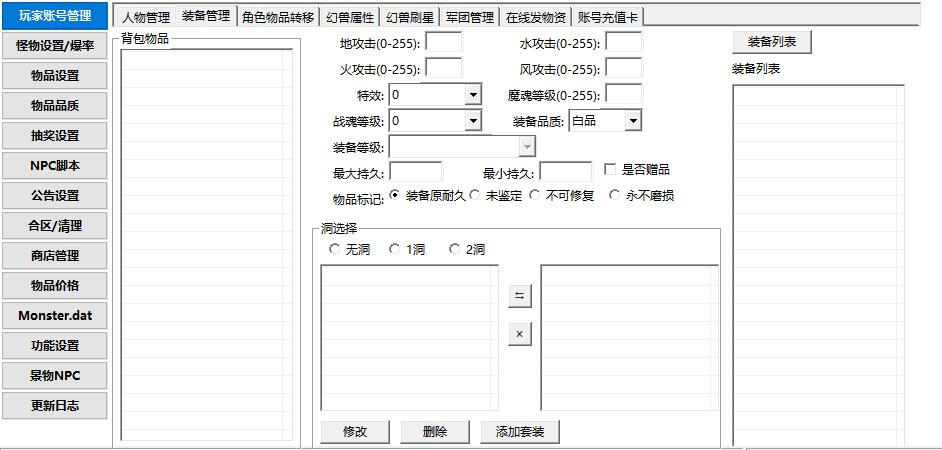
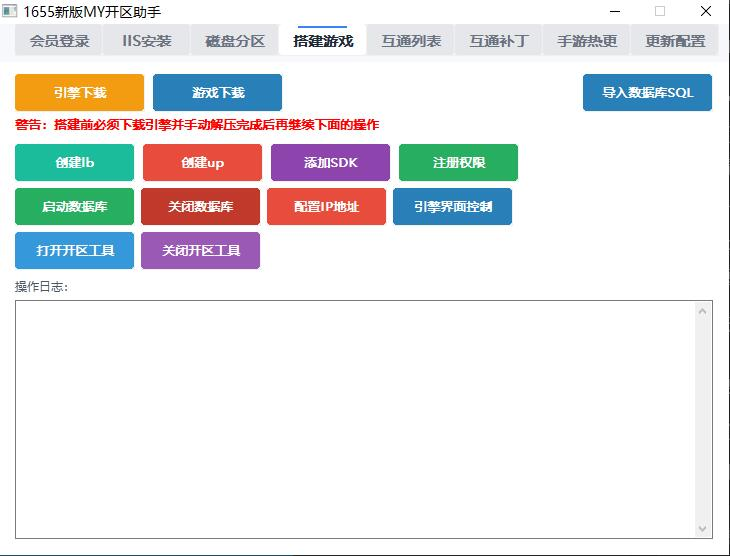
Add files via upload

diff --git a/pages/tool-6.html b/pages/tool-6.html
@@ -3,7 +3,7 @@
 <head>
   <meta charset="UTF-8" />
   <meta name="viewport" content="width=device-width, initial-scale=1.0" />
-  <title>二维码生成器 | 单机魔域工具库</title>
+  <title>纯老端魔域GM工具 | 单机魔域工具库</title>
   <link rel="stylesheet" href="../css/style.css" />
   <link rel="icon" type="image/x-icon" href="../images/favicon.ico" />
   <meta name="keywords" content="魔域单机版,单机魔域修改工具,单机魔域GM工具,魔域技术,魔域维护工具,单机魔域一键工具" />
@@ -25,28 +25,27 @@
   <!-- ===== 文章 ===== -->
   <main class="article container">
     <div class="breadcrumb">
-      <a href="../index.html">首页</a> / <a href="../index.html#tools">全部工具</a> / 二维码生成器
+      <a href="../index.html">首页</a> / <a href="../index.html#tools">全部工具</a> / 纯老端魔域GM工具
     </div>
 
     <div class="article-head">
-      <img class="cover" src="../images/tool-6.svg" alt="二维码生成器" />
+      <img class="cover" src="../images/tool-6.jpg" alt="纯老端魔域GM工具" />
       <div class="meta">
-        <h1>二维码生成器</h1>
-        <a class="btn-download" href="#">下载使用</a>
+        <h1>纯老端魔域GM工具</h1>
+        <a class="btn-download" href="https://wwand.lanzout.com/ilu3L4et6zdc">下载使用，密码1234</a>
       </div>
     </div>
 
     <div class="article-body">
       <h2>工具简介</h2>
-      <p>二维码生成器 是为玩单机开发的一款轻量小工具，专注于把繁琐重复的操作变得简单。它占用资源极小、无需安装即可运行。</p>
+      <p>纯老端魔域GM工具 是为玩单机开发的一款轻量小工具，专注于把繁琐重复的操作变得简单。它占用资源极小、无需安装即可运行。</p>
 
       <h2>核心功能</h2>
       <ul>
-    <li>支持文本/网址/名片</li>
-    <li>可调尺寸与容错</li>
-    <li>前景背景配色</li>
-    <li>导出 PNG/SVG</li>
-    <li>扫码预览</li>
+    <li>支持账号管理/幻兽管理/装备管理</li>
+    <li>完整的VIP商店制作</li>
+    <li>完美的脚本功能</li>
+    <li>超多综合功能等你来挖掘</li>
       </ul>
 
       <h2>使用说明</h2>

diff --git a/index.html b/index.html
@@ -52,36 +52,36 @@
         </a>
       </div>
     </div>
-<!--  
-    <!-- 第 2 段 
+  
+     <!-- 第 2 段  -->
     <div class="subsection">
-      <h2 class="cat-title">效率与开发工具</h2>
+      <h2 class="cat-title">GM开发工具</h2>
       <div class="grid">
         <a class="card" href="pages/tool-4.html">
-          <img class="thumb" src="images/tool-4.svg" alt="文本对比器" />
+          <img class="thumb" src="images/tool-4.jpg" alt="1655新版MY开区助手" />
           <div class="body">
-            <h3>文本对比器</h3>
+            <h3>1655新版MY开区助手</h3>
             <span class="more">查看详情</span>
           </div>
         </a>
         <a class="card" href="pages/tool-5.html">
-          <img class="thumb" src="images/tool-5.svg" alt="安全密码生成器" />
+          <img class="thumb" src="images/tool-5.jpg" alt="新老通用脚本编辑工具" />
           <div class="body">
-            <h3>安全密码生成器</h3>
+            <h3>新老通用脚本编辑工具</h3>
             <span class="more">查看详情</span>
           </div>
         </a>
-        <a class="card" href="pages/tool-9.html">
-          <img class="thumb" src="images/tool-9.svg" alt="剪贴板管理器" />
+        <a class="card" href="pages/tool-6.html">
+          <img class="thumb" src="images/tool-6.jpg" alt="纯老端魔域GM工具(多功能完整版)" />
           <div class="body">
-            <h3>剪贴板管理器</h3>
+            <h3>纯老端魔域GM工具(多功能完整版)</h3>
             <span class="more">查看详情</span>
           </div>
         </a>
-        <a class="card" href="pages/tool-10.html">
-          <img class="thumb" src="images/tool-10.svg" alt="JSON 格式化工具" />
+        <a class="card" href="pages/tool-7.html">
+          <img class="thumb" src="images/tool-7.jpg" alt="16655新端魔域GM工具" />
           <div class="body">
-            <h3>JSON 格式化工具</h3>
+            <h3>16655新端魔域GM工具</h3>
             <span class="more">查看详情</span>
           </div>
         </a>

diff --git a/pages/tool-7.html b/pages/tool-7.html
@@ -3,7 +3,7 @@
 <head>
   <meta charset="UTF-8" />
   <meta name="viewport" content="width=device-width, initial-scale=1.0" />
-  <title>定时关机助手 | 单机魔域工具库</title>
+  <title>16655新端魔域GM工具 | 单机魔域工具库</title>
   <link rel="stylesheet" href="../css/style.css" />
   <link rel="icon" type="image/x-icon" href="../images/favicon.ico" />
   <meta name="keywords" content="魔域单机版,单机魔域修改工具,单机魔域GM工具,魔域技术,魔域维护工具,单机魔域一键工具" />
@@ -25,28 +25,25 @@
   <!-- ===== 文章 ===== -->
   <main class="article container">
     <div class="breadcrumb">
-      <a href="../index.html">首页</a> / <a href="../index.html#tools">全部工具</a> / 定时关机助手
+      <a href="../index.html">首页</a> / <a href="../index.html#tools">全部工具</a> / 16655新端魔域GM工具
     </div>
 
     <div class="article-head">
-      <img class="cover" src="../images/tool-7.svg" alt="定时关机助手" />
+      <img class="cover" src="../images/tool-7.jpg" alt="16655新端魔域GM工具" />
       <div class="meta">
-        <h1>定时关机助手</h1>
-        <a class="btn-download" href="#">下载使用</a>
+        <h1>16655新端魔域GM工具</h1>
+        <a class="btn-download" href="https://wwand.lanzout.com/iwuWp4et7lij">下载使用，密码1234</a>
       </div>
     </div>
 
     <div class="article-body">
       <h2>工具简介</h2>
-      <p>定时关机助手 是为玩单机开发的一款轻量小工具，专注于把繁琐重复的操作变得简单。它占用资源极小、无需安装即可运行。</p>
+      <p>16655新端魔域GM工具 是为玩单机开发的一款轻量小工具，专注于把繁琐重复的操作变得简单。它占用资源极小、无需安装即可运行。</p>
 
       <h2>核心功能</h2>
       <ul>
-    <li>倒计时与定时双模式</li>
-    <li>关机/休眠/重启</li>
-    <li>执行前提醒</li>
-    <li>任务计划管理</li>
-    <li>最小化托盘</li>
+    <li>没有</li>
+
       </ul>
 
       <h2>使用说明</h2>

diff --git a/pages/tool-4.html b/pages/tool-4.html
@@ -3,7 +3,7 @@
 <head>
   <meta charset="UTF-8" />
   <meta name="viewport" content="width=device-width, initial-scale=1.0" />
-  <title>纯老端单机GM工具 | 单机魔域工具库</title>
+  <title>1655新版MY开区助手 | 单机魔域工具库</title>
   <link rel="stylesheet" href="../css/style.css" />
   <link rel="icon" type="image/x-icon" href="../images/favicon.ico" />
   <meta name="keywords" content="魔域单机版,单机魔域修改工具,单机魔域GM工具,魔域技术,魔域维护工具,单机魔域一键工具" />
@@ -25,20 +25,20 @@
   <!-- ===== 文章 ===== -->
   <main class="article container">
     <div class="breadcrumb">
-      <a href="../index.html">首页</a> / <a href="../index.html#tools">全部工具</a> / 纯老端单机GM工具
+      <a href="../index.html">首页</a> / <a href="../index.html#tools">全部工具</a> / 1655新版MY开区助手
     </div>
 
     <div class="article-head">
-      <img class="cover" src="../images/tool-4.jpg" alt="纯老端单机GM工具" />
+      <img class="cover" src="../images/tool-4.jpg" alt="1655新版MY开区助手" />
       <div class="meta">
-        <h1>纯老端单机GM工具</h1>
-        <a class="btn-download" href="https://wwawq.lanzoue.com/b0rbij9qb">下载使用，密码：1234</a>
+        <h1>1655新版MY开区助手</h1>
+        <a class="btn-download" href="https://wwand.lanzout.com/iTHOI4et6dgd">下载使用，密码：1234</a>
       </div>
     </div>
 
     <div class="article-body">
       <h2>工具简介</h2>
-      <p>纯老端单机GM工具 是为玩单机开发的一款轻量小工具，专注于把繁琐重复的操作变得简单。它占用资源极小、无需安装即可运行。</p>
+      <p>1655新版MY开区助手 是为玩单机开发的一款轻量小工具，专注于把繁琐重复的操作变得简单。它占用资源极小、无需安装即可运行。</p>
 
       <h2>核心功能</h2>
       <ul>
